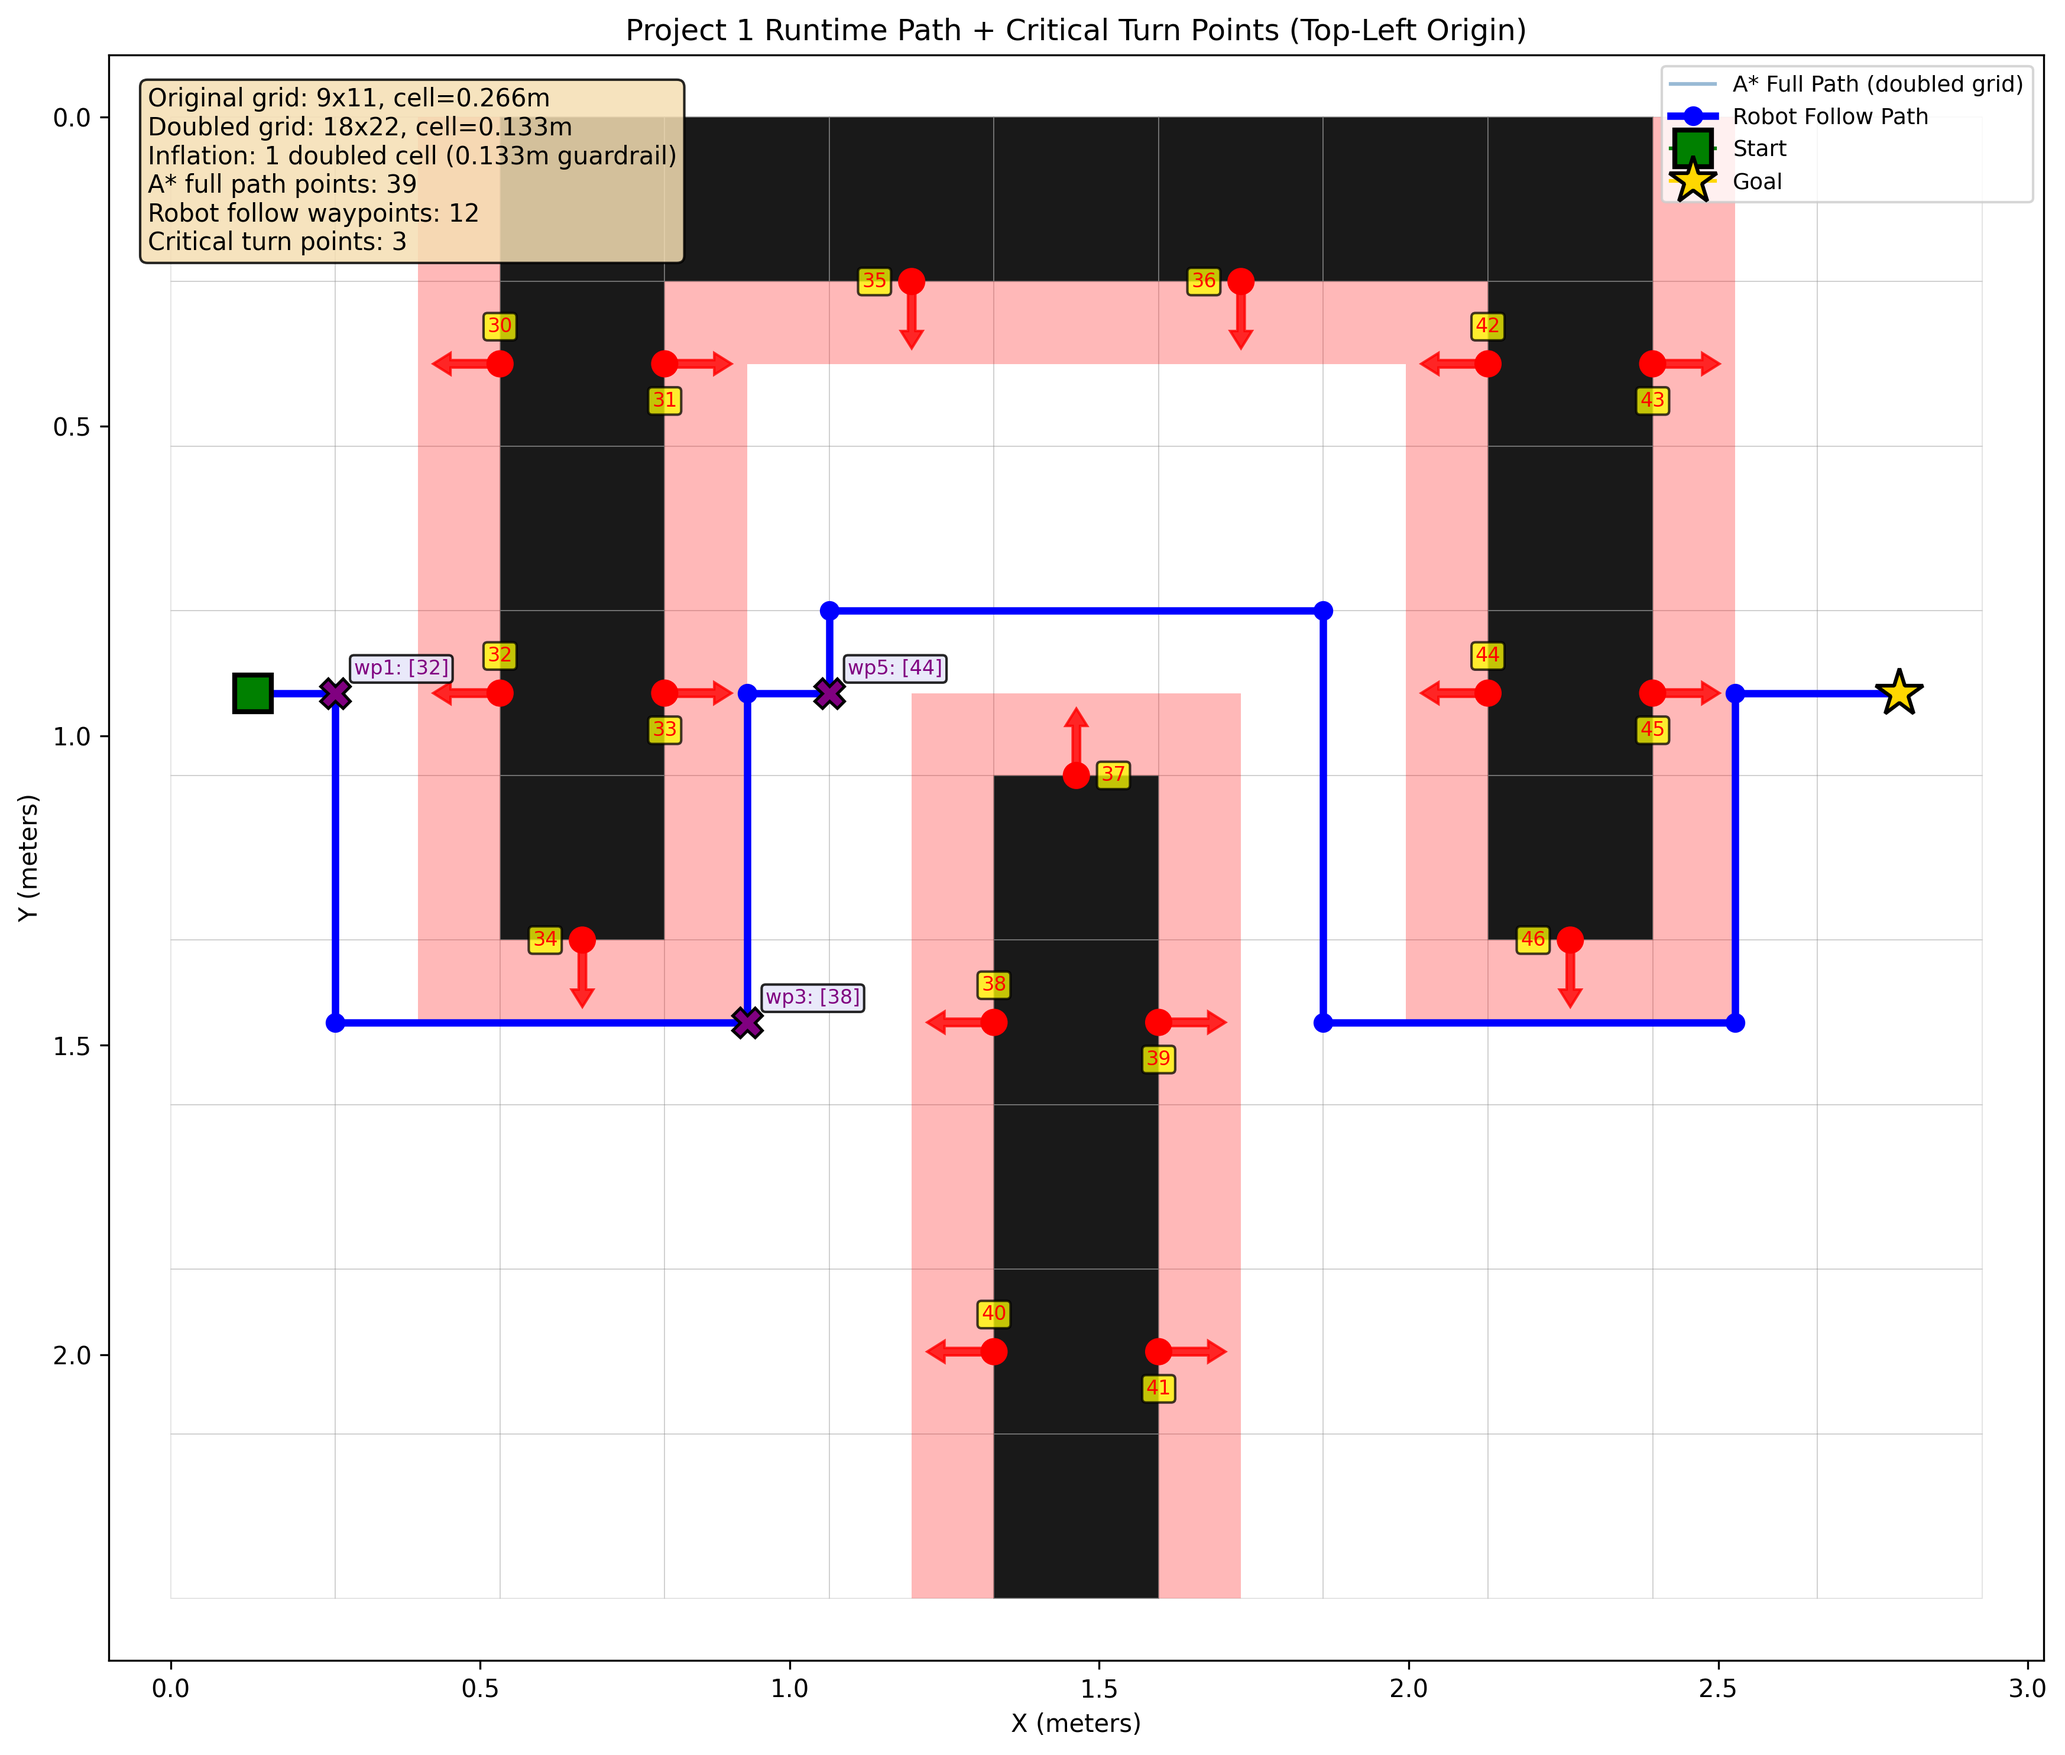
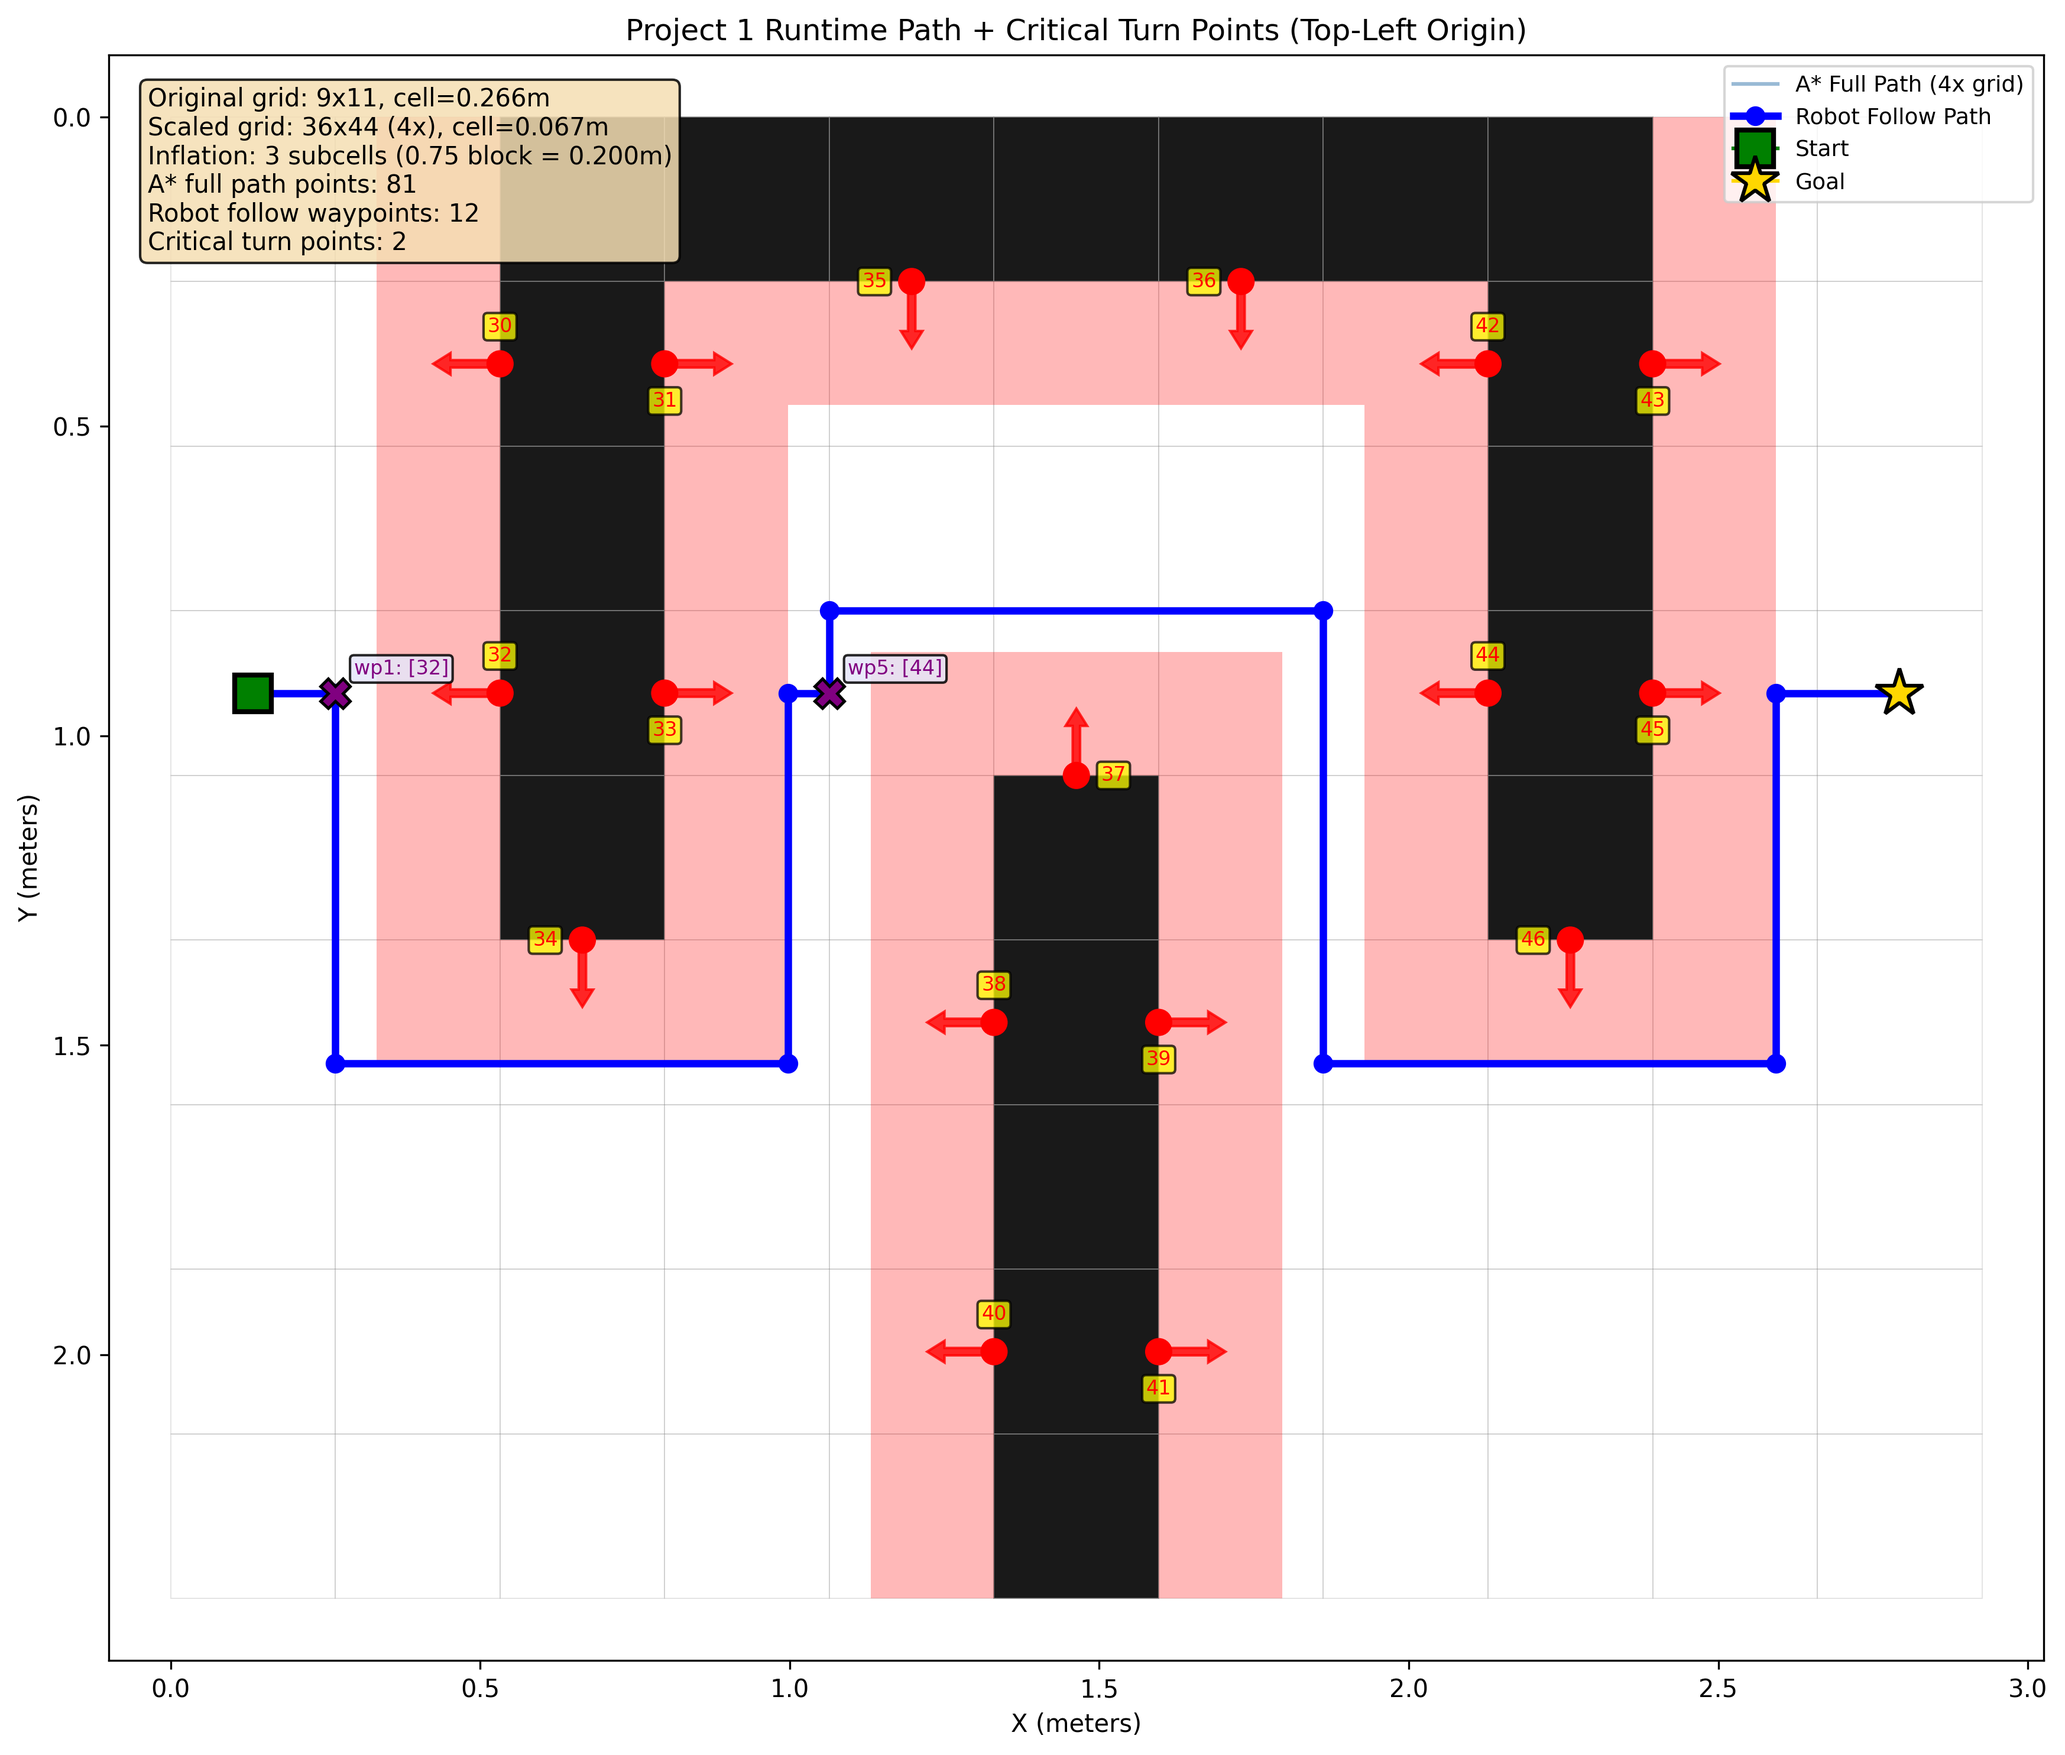
0.75 block red radius

Changed region(s): [[0.156, 0.031, 0.9674, 0.9296], [0.0624, 0.062, 0.3433, 0.093]]

diff --git a/visualize_grid.py b/visualize_grid.py
@@ -17,7 +17,9 @@ from matplotlib.patches import FancyArrow
 from project1_nav import (
     CELL_SIZE_M,
     GOAL_CELL,
+    INFLATION_SUBCELLS,
     OCC,
+    PLANNING_SCALE,
     START_CELL,
     GridMap,
     astar,
@@ -40,12 +42,13 @@ def compute_runtime_plan() -> tuple[
     dict[int, list[int]],
 ]:
     """Compute the same planning products used in project1_nav.main()."""
-    doubled_occ = double_grid_resolution(OCC)
-    doubled_cell = CELL_SIZE_M / 2.0
-    inflated = inflate_obstacles(doubled_occ, inflation_cells=1)
+    doubled_occ = double_grid_resolution(OCC, scale=PLANNING_SCALE)
+    doubled_cell = CELL_SIZE_M / float(PLANNING_SCALE)
+    inflated = inflate_obstacles(doubled_occ, inflation_cells=INFLATION_SUBCELLS)
 
-    start_d = (2 * START_CELL[0] + 1, 2 * START_CELL[1] + 1)
-    goal_d = (2 * GOAL_CELL[0] + 1, 2 * GOAL_CELL[1] + 1)
+    center_offset = PLANNING_SCALE // 2
+    start_d = (PLANNING_SCALE * START_CELL[0] + center_offset, PLANNING_SCALE * START_CELL[1] + center_offset)
+    goal_d = (PLANNING_SCALE * GOAL_CELL[0] + center_offset, PLANNING_SCALE * GOAL_CELL[1] + center_offset)
 
     grid = GridMap(inflated, cell_size_m=doubled_cell, origin_xy=(0.0, 0.0))
     path_full = astar(grid, start_d, goal_d)
@@ -87,14 +90,14 @@ def visualize_grid_and_path() -> None:
     tag_map = build_tag_world_map()
 
     rows, cols = OCC.shape
-    doubled_cell = CELL_SIZE_M / 2.0
+    doubled_cell = CELL_SIZE_M / float(PLANNING_SCALE)
 
     fig, ax = plt.subplots(figsize=(14, 10))
 
     # Draw original map (black obstacles)
     draw_grid(ax, OCC, CELL_SIZE_M)
 
-    # Draw inflated-only safety region (red translucent) at doubled resolution
+    # Draw inflated-only safety region (red translucent) at subcell resolution
     doubled_rows, doubled_cols = inflated.shape
     for r in range(doubled_rows):
         for c in range(doubled_cols):
@@ -150,7 +153,7 @@ def visualize_grid_and_path() -> None:
         color="steelblue",
         linewidth=1.5,
         alpha=0.55,
-        label="A* Full Path (doubled grid)",
+        label=f"A* Full Path ({PLANNING_SCALE}x grid)",
         zorder=3,
     )
 
@@ -198,8 +201,8 @@ def visualize_grid_and_path() -> None:
 
     info = []
     info.append(f"Original grid: {rows}x{cols}, cell={CELL_SIZE_M:.3f}m")
-    info.append(f"Doubled grid: {doubled_occ.shape[0]}x{doubled_occ.shape[1]}, cell={doubled_cell:.3f}m")
-    info.append("Inflation: 1 doubled cell (0.133m guardrail)")
+    info.append(f"Scaled grid: {doubled_occ.shape[0]}x{doubled_occ.shape[1]} ({PLANNING_SCALE}x), cell={doubled_cell:.3f}m")
+    info.append(f"Inflation: {INFLATION_SUBCELLS} subcells ({INFLATION_SUBCELLS/PLANNING_SCALE:.2f} block = {INFLATION_SUBCELLS*doubled_cell:.3f}m)")
     info.append(f"A* full path points: {len(path_full)}")
     info.append(f"Robot follow waypoints: {len(path_follow)}")
     info.append(f"Critical turn points: {len(critical_tags)}")
@@ -220,8 +223,8 @@ def visualize_grid_and_path() -> None:
 
     print("=== Visualization Summary ===")
     print(f"Saved: {out_path}")
-    print(f"Start doubled cell: {path_follow[0]}, world: ({sx:.3f}, {sy:.3f})")
-    print(f"Goal doubled cell:  {path_follow[-1]}, world: ({gx:.3f}, {gy:.3f})")
+    print(f"Start subcell: {path_follow[0]}, world: ({sx:.3f}, {sy:.3f})")
+    print(f"Goal subcell:  {path_follow[-1]}, world: ({gx:.3f}, {gy:.3f})")
     print(f"A* full points: {len(path_full)}")
     print(f"Robot follow waypoints: {len(path_follow)}")
     if critical_tags:

diff --git a/project1_nav.py b/project1_nav.py
@@ -56,6 +56,8 @@ K = np.array(
 TAG_FAMILY = "tag36h11"
 TAG_SIZE_M = 0.200
 CELL_SIZE_M = 0.266
+PLANNING_SCALE = 4          # 4x subcell grid
+INFLATION_SUBCELLS = 3      # 3/4 block barrier at 4x scale
 
 # Top-left origin occupancy map (0=free, 1=obstacle)
 OCC = np.array(
@@ -126,12 +128,16 @@ def yaw_from_R(R: np.ndarray) -> float:
     return math.atan2(R[1, 0], R[0, 0])
 
 
-def double_grid_resolution(grid: np.ndarray) -> np.ndarray:
+def double_grid_resolution(grid: np.ndarray, scale: int = 2) -> np.ndarray:
     H, W = grid.shape
-    doubled = np.zeros((2 * H, 2 * W), dtype=int)
+    if scale <= 0:
+        raise ValueError("scale must be >= 1")
+    doubled = np.zeros((scale * H, scale * W), dtype=int)
     for r in range(H):
         for c in range(W):
-            doubled[2 * r : 2 * r + 2, 2 * c : 2 * c + 2] = grid[r, c]
+            r0 = scale * r
+            c0 = scale * c
+            doubled[r0 : r0 + scale, c0 : c0 + scale] = grid[r, c]
     return doubled
 
 
@@ -153,8 +159,8 @@ def doubled_node_to_world(r: int, c: int, doubled_cell_size_m: float) -> Tuple[f
     """
     Convert a doubled-grid node index to world coordinates.
 
-    For doubled planning, nodes represent half-cell lattice points, so world
-    coordinates are index * doubled_cell_size (not cell centers).
+    For subcell planning, nodes represent lattice points, so world coordinates
+    are index * subcell_size (not cell centers).
     """
     return (c * doubled_cell_size_m, r * doubled_cell_size_m)
 
@@ -562,14 +568,16 @@ def main() -> None:
     print("\n=== Planning ===")
     print(f"Original grid: {OCC.shape}, cell={CELL_SIZE_M:.3f} m")
 
-    doubled_occ = double_grid_resolution(OCC)
-    doubled_cell = CELL_SIZE_M / 2.0
+    doubled_occ = double_grid_resolution(OCC, scale=PLANNING_SCALE)
+    doubled_cell = CELL_SIZE_M / float(PLANNING_SCALE)
 
-    # 1 doubled-cell inflation == 0.133 m == 0.5 cube guardrail in original scale.
-    inflated = inflate_obstacles(doubled_occ, inflation_cells=1)
+    # 4x scale + inflation by 3 subcells => 0.75 block barrier (0.1995 m).
+    inflated = inflate_obstacles(doubled_occ, inflation_cells=INFLATION_SUBCELLS)
 
-    start_d = (2 * START_CELL[0] + 1, 2 * START_CELL[1] + 1)
-    goal_d = (2 * GOAL_CELL[0] + 1, 2 * GOAL_CELL[1] + 1)
+    # Place start/goal on subcell lattice at original cell centers.
+    center_offset = PLANNING_SCALE // 2
+    start_d = (PLANNING_SCALE * START_CELL[0] + center_offset, PLANNING_SCALE * START_CELL[1] + center_offset)
+    goal_d = (PLANNING_SCALE * GOAL_CELL[0] + center_offset, PLANNING_SCALE * GOAL_CELL[1] + center_offset)
 
     grid = GridMap(inflated, cell_size_m=doubled_cell, origin_xy=(0.0, 0.0))
     path_rc = astar(grid, start_d, goal_d)

diff --git a/PROJECT1_NAV_WORKFLOW.md b/PROJECT1_NAV_WORKFLOW.md
@@ -17,18 +17,18 @@ This document explains how `project1_nav.py` works, what parts are critical, and
 ## Critical Components
 
 ### 1) Grid preparation and safety inflation
-- `double_grid_resolution(grid)` expands each cell into a 2x2 block.
-- `inflate_obstacles(grid, inflation_cells=1)` inflates obstacles by 1 doubled cell.
+- `double_grid_resolution(grid, scale=4)` expands each cell into a 4x4 subcell block.
+- `inflate_obstacles(grid, inflation_cells=3)` inflates obstacles by 3 subcells.
 
 Why this matters:
 - Robot footprint is approximately `1.5 x 1.0` cubes.
-- Inflating by 1 doubled cell gives a `0.133 m` (half-cube) guardrail around obstacles.
+- Inflating by 3 subcells at 4x scale gives a `0.75 block` barrier (`0.1995 m`) around obstacles.
 
 ### 2) Path planner
 - `GridMap`: occupancy access, bounds checks, and grid->world conversion.
 - `astar(grid, start, goal)`: shortest-path planning with 4-connectivity.
 - `remove_collinear(path)`: simplifies dense A* path to corner waypoints actually used for tracking.
-- `doubled_node_to_world(r, c, doubled_cell)`: converts doubled-grid nodes to world coordinates using half-cell lattice points (`index * doubled_cell`), which keeps tag/path alignment correct.
+- `doubled_node_to_world(r, c, subcell_size)`: converts scaled-grid nodes to world coordinates using lattice points (`index * subcell_size`), which keeps tag/path alignment correct.
 
 ### 3) AprilTag map and localization
 - `build_tag_world_map()`: known map of tag id -> `(x, y, yaw)` in world frame.
@@ -102,8 +102,8 @@ Runtime execution is segment-based:
 This design intentionally avoids using tag-estimated position for distance control.
 
 ## Runtime Workflow (High-Level)
-1. Build doubled and inflated grid.
-2. Convert start/goal to doubled-grid node indices (`2*r+1, 2*c+1`) and plan on that lattice.
+1. Build 4x scaled and inflated grid.
+2. Convert start/goal to scaled-grid node indices (`4*r+2, 4*c+2`) and plan on that lattice.
 3. Run A*.
 4. Simplify path to corner waypoints.
 5. Build tag map and critical-tag map.
